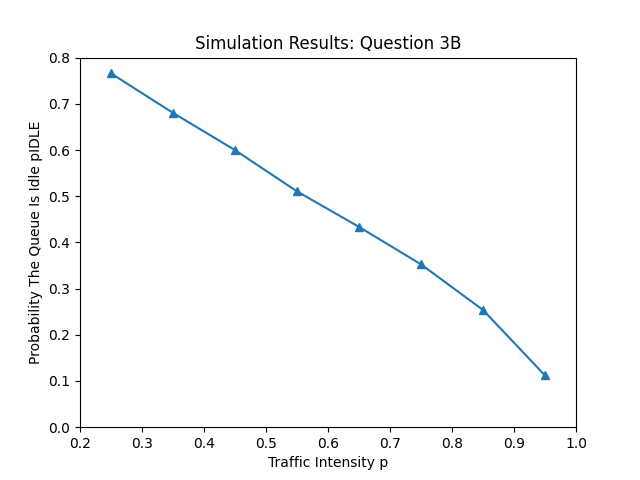
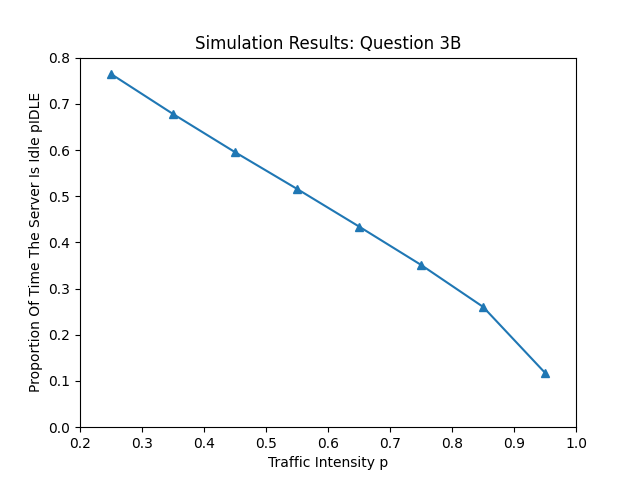
Final graphs.

diff --git a/des_mm1.py b/des_mm1.py
@@ -177,7 +177,7 @@ plt.xticks(np.arange(0.2, x[7]+0.1, 0.1))
 plt.yticks(np.arange(0, y[0]+0.1, 0.1))
 plt.title('Simulation Results: Question 3B')
 plt.xlabel('Traffic Intensity p')
-plt.ylabel('Probability The Queue Is Idle pIDLE')
+plt.ylabel('Proportion Of Time The Server Is Idle pIDLE')
 plt.show()
 
 # -----------------Question 4-----------------
